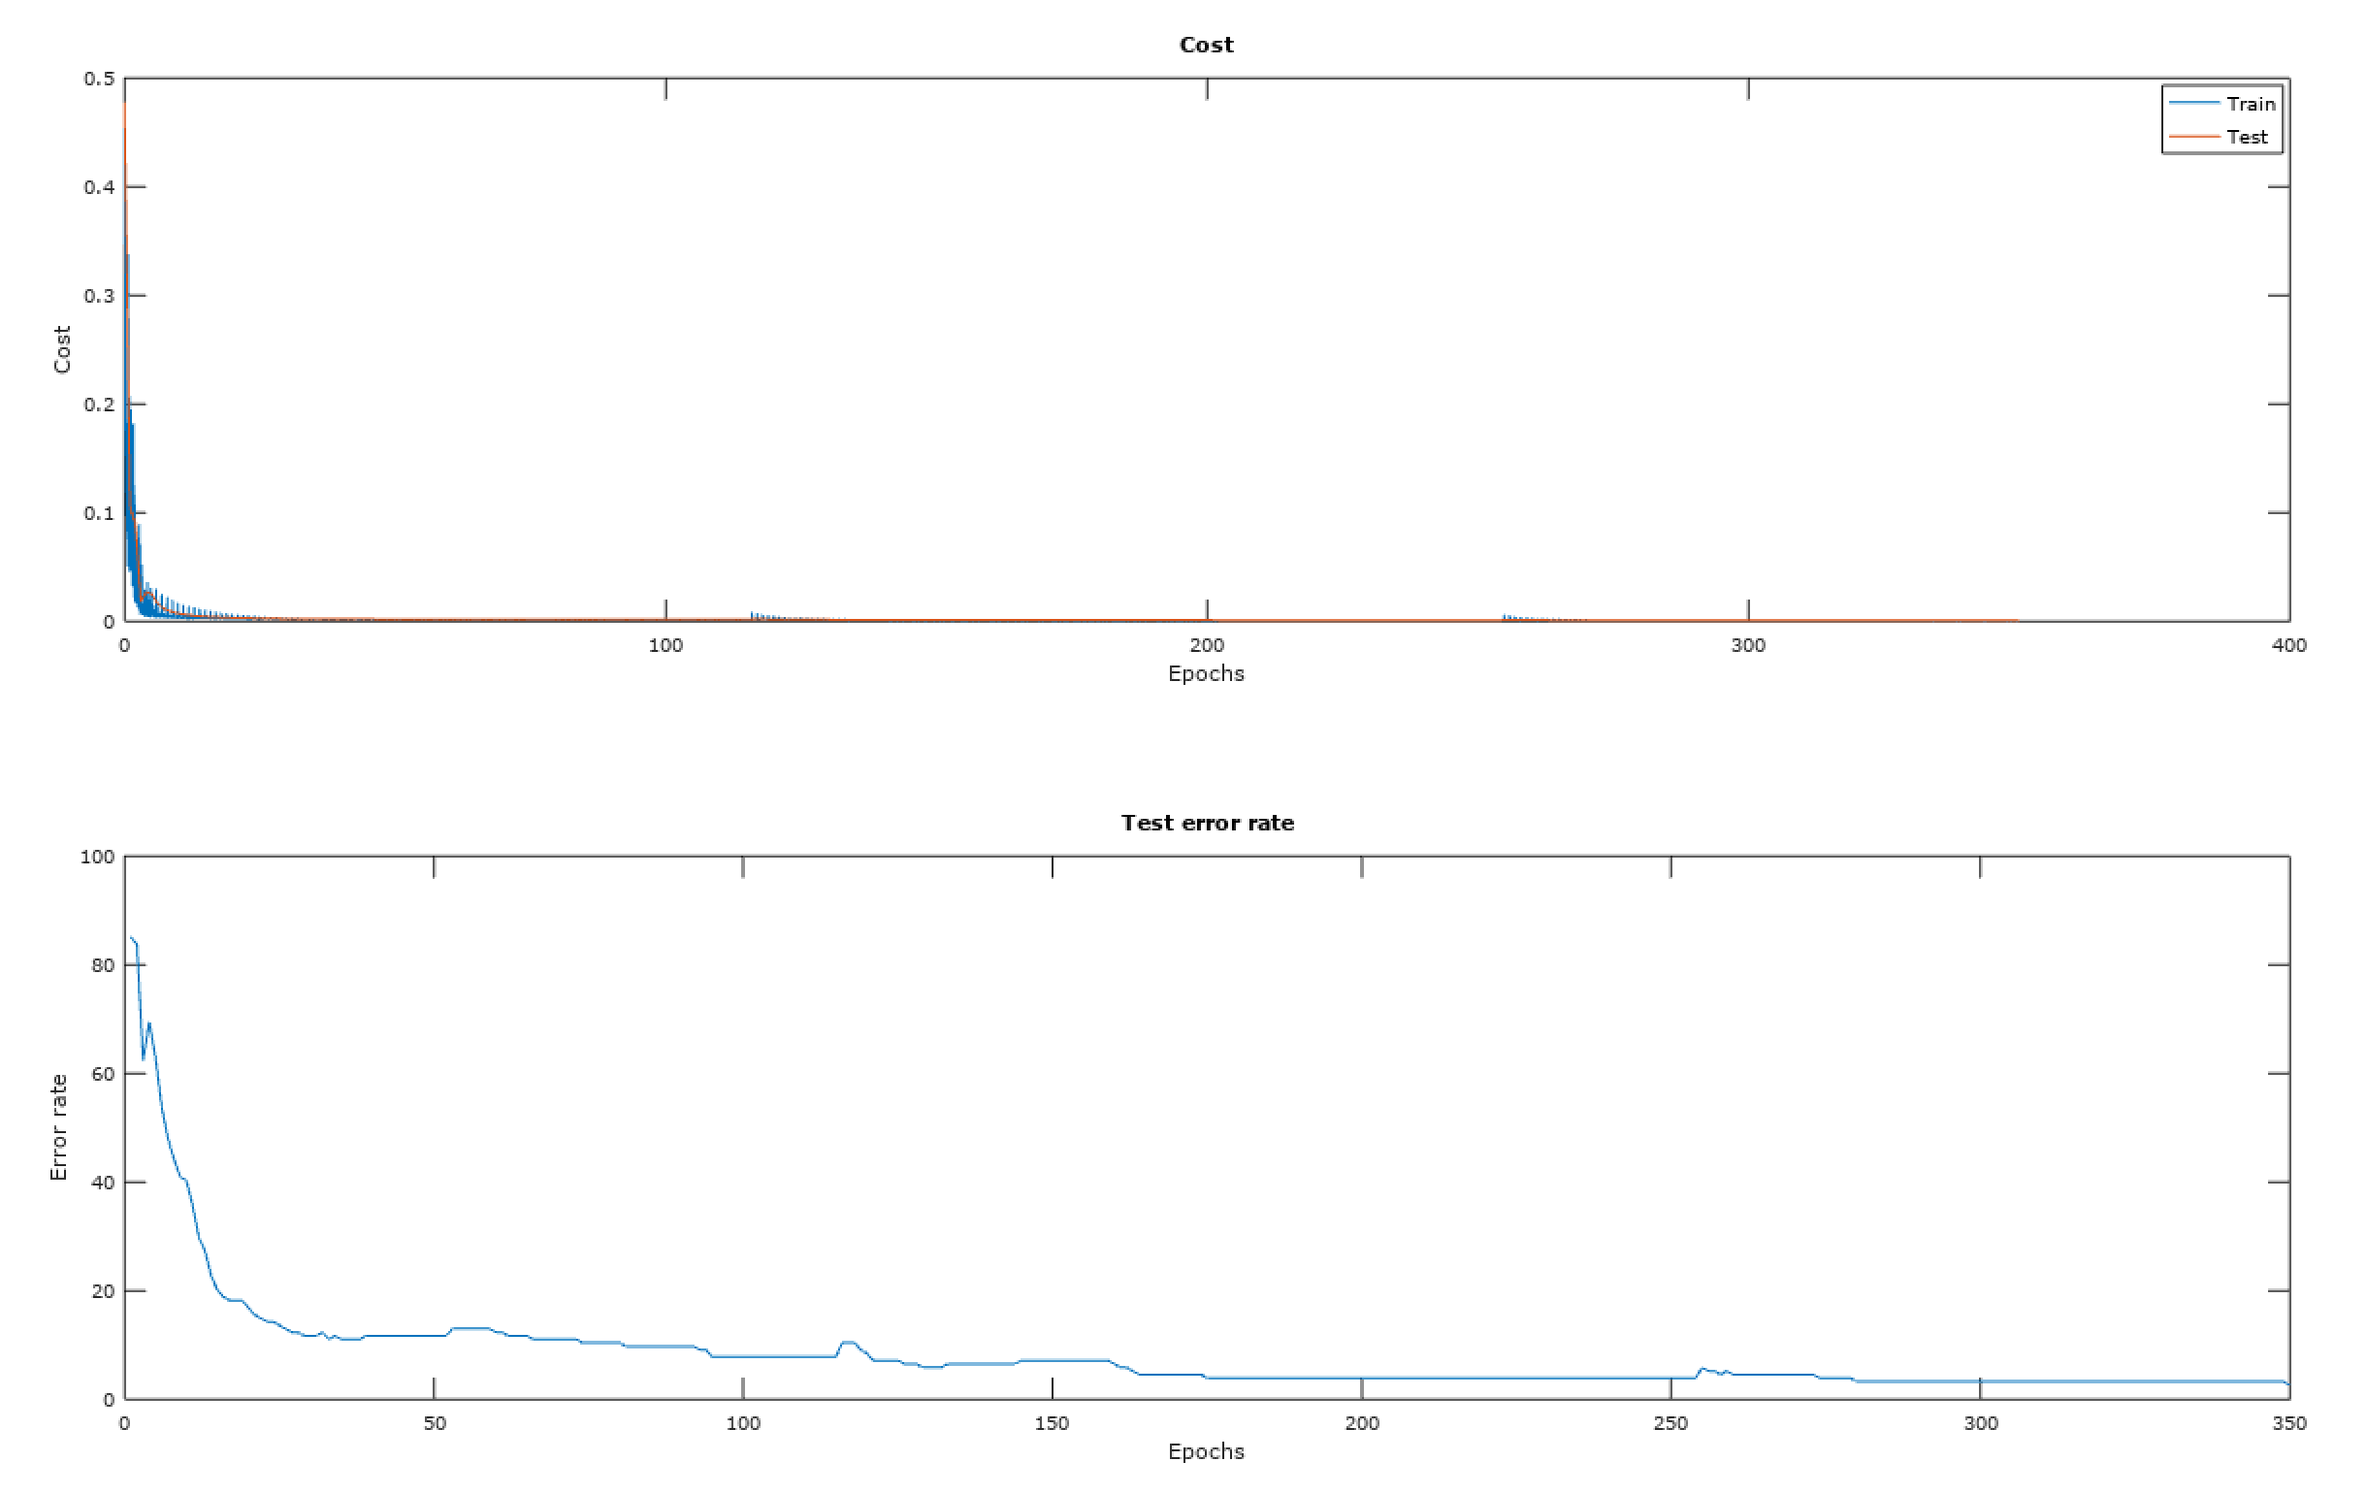
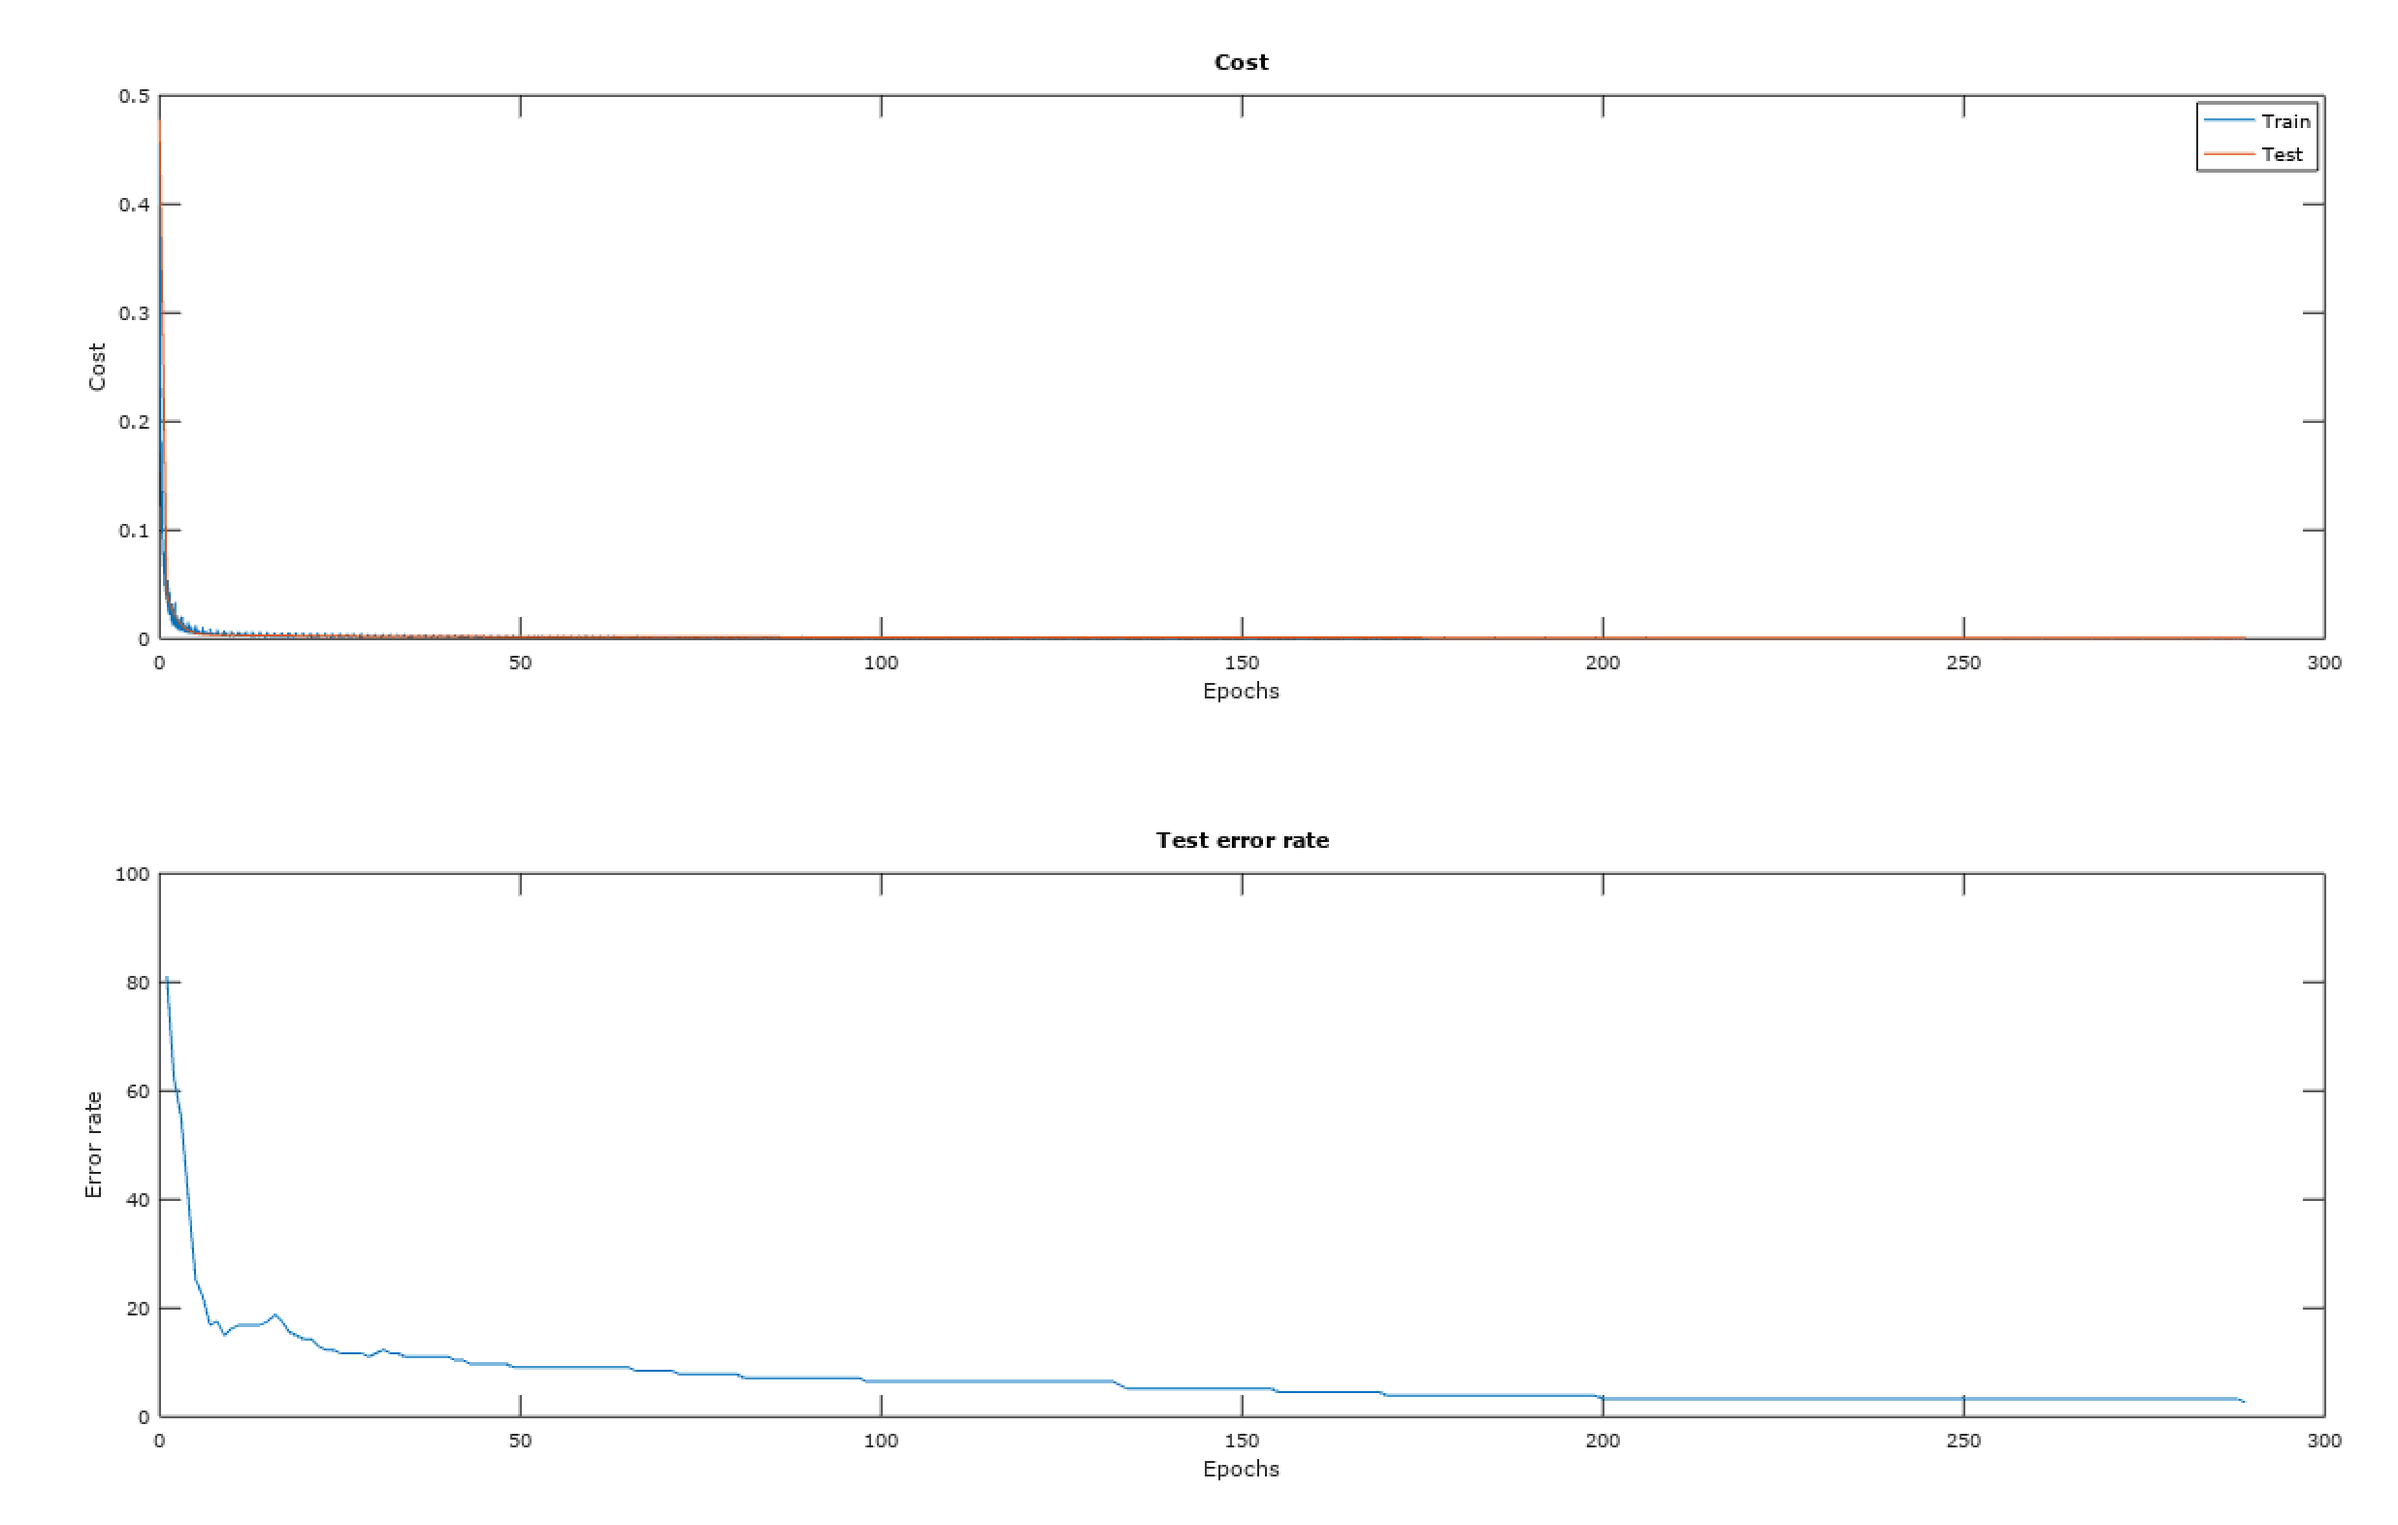
test28

diff --git a/TP1/config.m b/TP1/config.m
@@ -15,9 +15,9 @@ epochs = 1;
 algorithm = 'adaptive';      % 'momentum' 'adaptive' 'vanilla'
 alfa = 0.9;                  % momentum config
 cost_interval = 10;          % adaptive config
-inc_steps = 3;               % adaptive config
+inc_steps = 10;               % adaptive config
 lr_increase = 0.1;        % adaptive config
-lr_decrease_factor = 0.01;   % adaptive config
+lr_decrease_factor = 0.001;   % adaptive config
 
 %% Plot terrain config
 pts = rand(20000, 2) * 2 - 1;  % points to plot
